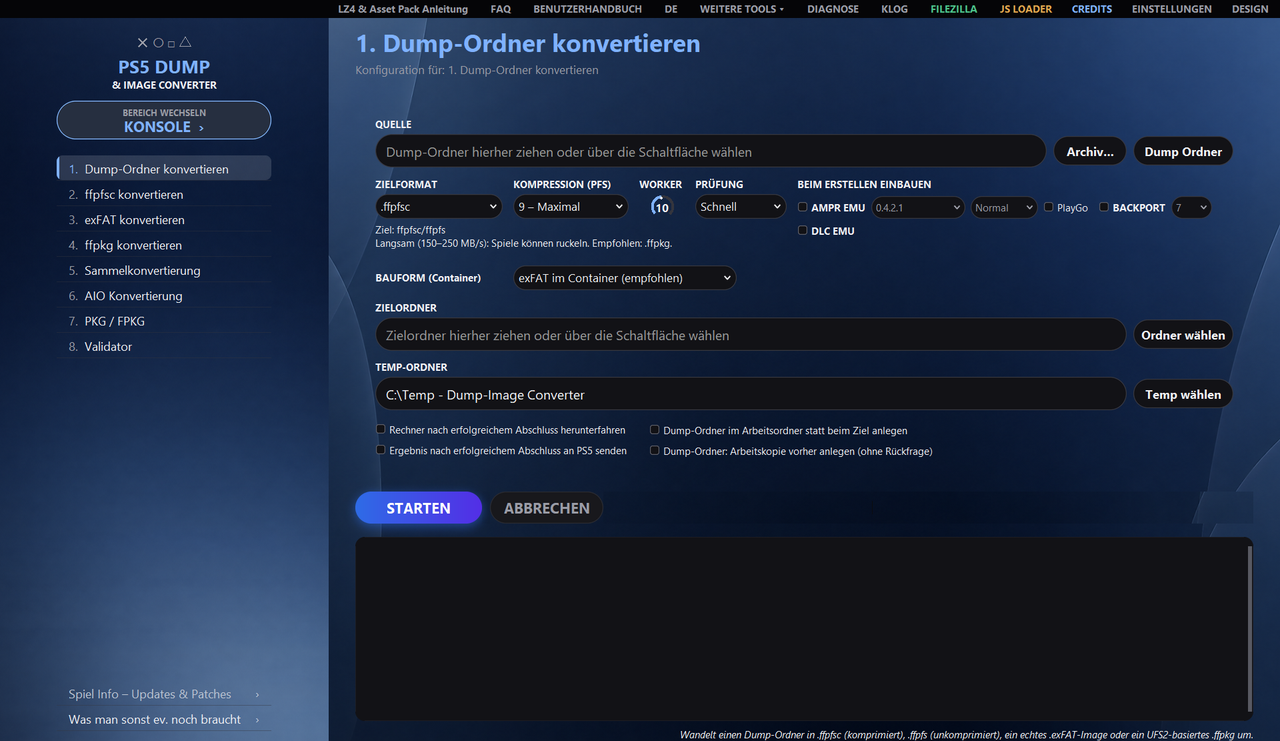
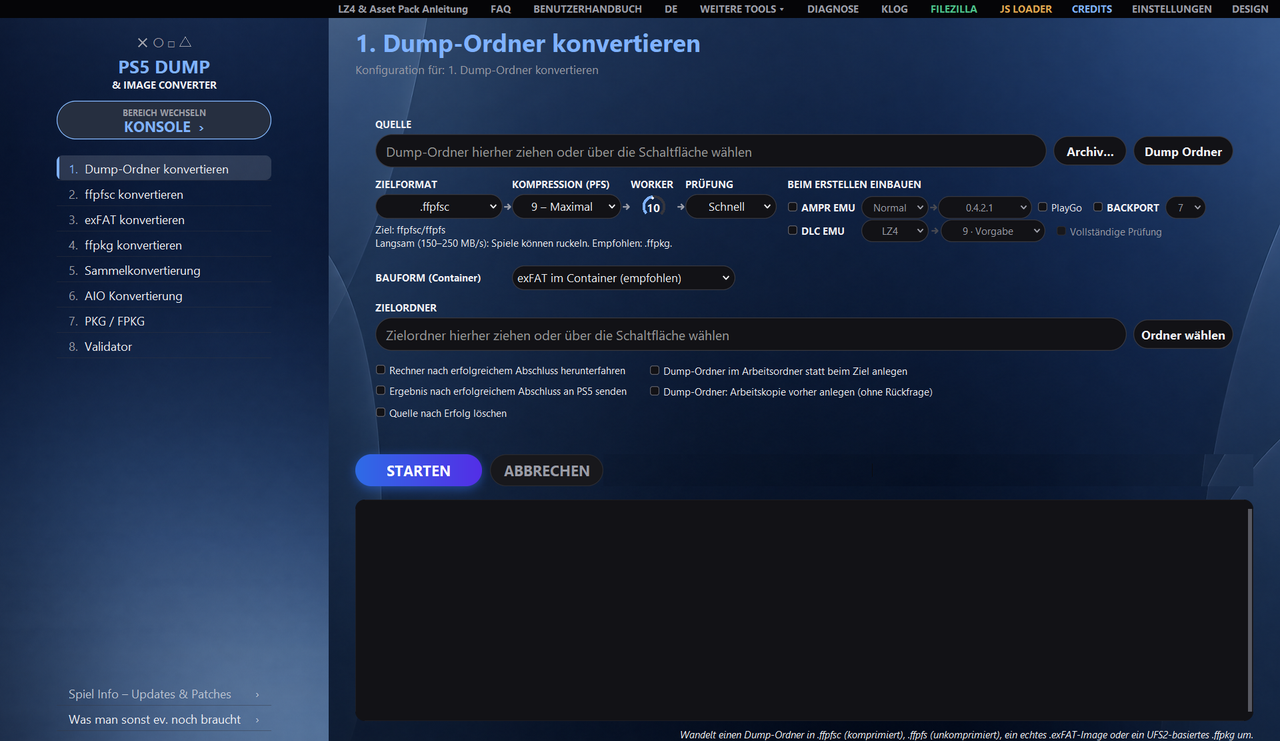
README (5 Sprachen) und README-Bilder auf den Stand v1.9.98 gebracht
- Funktionen: Umwandlung in einem Zug ohne Zwischenordner, .ffpkg ohne UFS2Tool,
  Quelle nach Erfolg loeschen; Werkzeuge: Direkt aendern (.exfat/.ffpkg/.ffpfs)
  und Geraete im Netz
- Voraussetzungen: Windows-Zeile zu Administratorrechten richtiggestellt (EXE fragt
  per UAC, sonst brauchen nur UFS2Tool-Weg und OSFMount sie)
- Kommandozeile: --ausgabename und --quelle-loeschen ergaenzt, Beschreibung von
  --ampr-originale-weglassen um NG mit LZ4 erweitert, "letzten sieben"
- Plattformunterschiede: .ffpkg mit eigenem UFS2-Leser und -Schreiber
- Bilder neu aufgenommen (Hauptansicht, Konsole, PKG; WebKit und Mitschnitt waren
  unveraendert), offline, ohne Netz, mit Beispielspiel statt echter Titel

diff --git a/README_FR.md b/README_FR.md
@@ -50,7 +50,10 @@ et **CONSOLE** ; chaque tâche est aussi disponible sans fenêtre, en ligne de c
 
 🔄 **Convertir**<br>
 Dossiers de dump, `.ffpfsc`, `.exfat` et véritables `.ffpkg` UFS2 dans toutes les directions, y compris
-directement depuis `.zip`, `.7z` et `.rar`. Seuls les formats cibles compatibles avec la source détectée sont proposés.
+directement depuis `.zip`, `.7z` et `.rar`. La conversion se fait en principe en une seule passe, sans dossier
+intermédiaire (aussi avec AMPR EMU et BACKPORT), et un `.ffpkg` est créé sans UFS2Tool. Seuls les formats
+cibles compatibles avec la source détectée sont proposés ; sur demande, la source est supprimée après une
+exécution vérifiée.
 
 </td>
 <td width="33%" valign="top">
@@ -116,7 +119,9 @@ Bibliothèque de jeux de l'ordinateur et de la PS5 avec jaquette ; infos de jeu 
 ShadowMount+, SMPlusGui, Prospero Manager, CoolSysCent-Pro, BFpilot, Asset Pack (vérifier et extraire)
 et le Y2JB Updater sont accessibles depuis la
 barre latérale. Sous AUTRES OUTILS, MODIFIER L'IMAGE modifie des fichiers individuels d'une image
-(extraire, remplacer, renommer, supprimer, reconditionner).
+(extraire, remplacer, renommer, supprimer, reconditionner) ; « Modifier directement » écrit dans `.exfat`,
+`.ffpkg` et `.ffpfs` sans extraction, et un journal permet d'annuler une interruption. « Appareils sur le
+réseau » trouve les NAS et ordinateurs du réseau et définit un partage Windows comme source ou destination.
 
 </td>
 <td valign="top">
@@ -173,7 +178,9 @@ Sous macOS, `Erste Installation.command` place l'application au bon endroit et r
 
 - **Windows 10/11**, une distribution Linux récente ou **macOS** (testé sous macOS 15 ; les versions antérieures n'ont pas été testées)
 - Suffisamment d'espace disque libre pour la source, l'état intermédiaire et la sortie
-- **Windows :** droits d'administrateur pour les opérations UFS2 (`.ffpkg`)
+- **Windows :** l'EXE fourni demande les droits d'administrateur au démarrage (UAC). Depuis le code source, ils
+  ne sont nécessaires que pour la voie via UFS2Tool et pour le montage avec OSFMount ; un `.ffpkg` sans dossier
+  intermédiaire est créé sans eux
 - **OSFMount non requis :** le programme lit les images `.exFAT` avec son lecteur exFAT intégré, sans
   rien monter – sur tous les systèmes. [OSFMount](https://www.osforensics.com/tools/mount-disk-images.html)
   n'est qu'un recours pour les images inhabituelles sous Windows ; s'il est nécessaire, le programme le signale
@@ -272,16 +279,18 @@ python PS5ImageConverter_Pro_FINAL_revised.py --cli --task 1 \
 | `--ampr-lz4-stufe N` | niveau LZ4 de l'Asset Pack, 1–12 (par défaut 9) |
 | `--ampr-zstd-stufe N` | niveau zstd de l'Asset Pack, 1–22 (par défaut 5) |
 | `--dump-im-arbeitsordner` | créer le dossier de dump temporaire des voies de reconditionnement dans le dossier de travail plutôt qu'à la destination |
+| `--ausgabename VORLAGE` | modèle pour le nom du résultat, p. ex. `"{title} [{title_id}]"` ; parties : `{name}` `{title}` `{title_id}` `{version}` `{region}` `{fw}` `{pack}`, par défaut `{name}` |
 | `--umhuellt-neu-packen` | `.exFAT`/`.ffpkg` → `.ffpfsc` avec AMPR EMU/BACKPORT : extraire, intégrer, reconditionner en `.ffpfsc` |
 | `--umhuellt-als-ordner` | par la même voie, ne construire que le dossier de dump à la place |
 | `--ampr-index-trotz-assets` | reconstruire `ampr_emu.index` même si un Asset Pack est présent |
-| `--ampr-originale-weglassen` | avec l'Asset Pack, retirer de la copie de travail les originaux empaquetés (judicieux uniquement après un test réussi sur la console ; avec AMPR EMU NG et zstd toujours, sans demander) |
+| `--ampr-originale-weglassen` | avec l'Asset Pack, retirer de la copie de travail les originaux empaquetés (judicieux uniquement après un test réussi sur la console ; avec AMPR EMU NG et zstd toujours, sans demander ; de même avec LZ4 tant que l'empaquetage se fait sans dossier intermédiaire) |
 | `--param-json-reparieren` | réparer sans confirmation un `param.json` défectueux |
 | `--param-json-online` | rechercher en ligne le titre et le Content-ID correspondants |
+| `--quelle-loeschen` | supprimer définitivement la source après une exécution vérifiée avec succès (pas de corbeille, pas de question) ; elle est conservée si le résultat manque, si la source a changé pendant l'exécution ou si le résultat l'a remplacée |
 
-Les six dernières décident de questions auxquelles `--yes` ne répond volontairement **pas** : un commutateur
+Les sept dernières décident de questions auxquelles `--yes` ne répond volontairement **pas** : un commutateur
 destiné aux questions d'écrasement ne doit pas, au passage, changer de voie, rendre un Asset Pack inutilisable,
-supprimer des fichiers de jeu ou envoyer des données sur le réseau.
+supprimer des fichiers de jeu, supprimer la source ou envoyer des données sur le réseau.
 
 Codes de retour : `0` succès · `1` erreur ou annulation · `2` arguments invalides · `3` droits
 d'administrateur manquants · `4` non vérifié (tâche 8 sans les droits nécessaires – aucun jugement sur le fichier).
@@ -379,7 +388,7 @@ Les différences se trouvent ici :
 
 | Domaine | Linux et macOS |
 | --- | --- |
-| Lire et créer des `.ffpkg` | Disponible – UFS2Tool est fourni pour Windows, Linux et macOS (Intel et Apple Silicon) ; la lecture se fait via `UFS2Tool extract`, la création via `newfs`/`makefs`. Seul le montage via le pilote Dokan n'existe que sous Windows. |
+| Lire et créer des `.ffpkg` | Disponible – le programme lit et écrit les `.ffpkg` avec son propre lecteur et écrivain UFS2, sans UFS2Tool. Là où la conversion sans dossier intermédiaire ne s'applique pas, UFS2Tool est utilisé : il est fourni pour Windows, Linux et macOS (Intel et Apple Silicon) ; la lecture se fait via `UFS2Tool extract`, la création via `newfs`/`makefs`. Seul le montage via le pilote Dokan n'existe que sous Windows. |
 | PS4 PKG Dump & Image Converter | OrbisPkgTool n'existe que comme programme Windows. Il y extrait les paquets PS4 vers le dossier de dump et fusionne base, mise à jour et DLC ; sans cet outil, il reste ffpfsc et exFAT, qui sont construits directement à partir des paquets via PS4 FFPFSC. La collection, les détails, la recherche de mises à jour et l'envoi fonctionnent partout. |
 | Solutions de remplacement d'OSFMount | Non disponible ; les voies natives MkPFS/exFAT sont entièrement présentes. |
 | Droits élevés | Non nécessaires. |

diff --git a/README_IT.md b/README_IT.md
@@ -49,7 +49,9 @@ della PS5. Tutto avviene tramite un'interfaccia grafica con due aree – **CONVE
 
 🔄 **Conversione**<br>
 Cartelle dump, `.ffpfsc`, `.exfat` e veri `.ffpkg` UFS2 in ogni direzione, anche direttamente da
-`.zip`, `.7z` e `.rar`. Vengono proposti solo i formati di destinazione compatibili con l'origine rilevata.
+`.zip`, `.7z` e `.rar`. La conversione avviene di norma in un solo passaggio, senza cartella intermedia
+(anche con AMPR EMU e BACKPORT), e un `.ffpkg` viene creato senza UFS2Tool. Vengono proposti solo i formati
+di destinazione compatibili con l'origine rilevata; su richiesta l'origine viene eliminata dopo un'esecuzione verificata.
 
 </td>
 <td width="33%" valign="top">
@@ -115,7 +117,9 @@ Libreria giochi del computer e della PS5 con copertina; Info gioco con aggiornam
 ShadowMount+, SMPlusGui, Prospero Manager, CoolSysCent-Pro, BFpilot, Asset Pack (verificare ed estrarre)
 e lo Y2JB Updater sono raggiungibili dalla
 barra laterale. Sotto ALTRI STRUMENTI, MODIFICA IMMAGINE modifica singoli file di un'immagine
-(estrarre, sostituire, rinominare, eliminare, ricreare il pacchetto).
+(estrarre, sostituire, rinominare, eliminare, ricreare il pacchetto); “Modifica diretta” scrive in `.exfat`,
+`.ffpkg` e `.ffpfs` senza estrarre, e un journal annulla un'interruzione. “Dispositivi in rete” trova NAS e
+computer in rete e imposta una condivisione Windows come origine o destinazione.
 
 </td>
 <td valign="top">
@@ -172,7 +176,9 @@ Su macOS, `Erste Installation.command` copia l'app nella posizione prevista e ri
 
 - **Windows 10/11**, una distribuzione Linux recente oppure **macOS** (testato su macOS 15; le versioni precedenti non sono state testate)
 - Spazio libero sufficiente per origine, stato intermedio e output
-- **Windows:** privilegi di amministratore per le procedure UFS2 (`.ffpkg`)
+- **Windows:** l'EXE pronto chiede privilegi di amministratore all'avvio (UAC). Eseguendo dal codice sorgente
+  servono solo per il percorso tramite UFS2Tool e per il montaggio con OSFMount; un `.ffpkg` senza cartella
+  intermedia viene creato senza di essi
 - **OSFMount non necessario:** le immagini `.exFAT` vengono lette dal programma con il proprio lettore exFAT
   integrato, senza montare nulla – su qualsiasi sistema. [OSFMount](https://www.osforensics.com/tools/mount-disk-images.html)
   è solo la soluzione di ripiego per immagini insolite su Windows; se serve, il programma lo segnala
@@ -271,16 +277,18 @@ python PS5ImageConverter_Pro_FINAL_revised.py --cli --task 1 \
 | `--ampr-lz4-stufe N` | livello LZ4 dell'Asset Pack, 1–12 (predefinito 9) |
 | `--ampr-zstd-stufe N` | livello zstd dell'Asset Pack, 1–22 (predefinito 5) |
 | `--dump-im-arbeitsordner` | creare la cartella dump temporanea dei percorsi di ripacchettamento nella cartella di lavoro anziché nella destinazione |
+| `--ausgabename VORLAGE` | modello per il nome del risultato, ad es. `"{title} [{title_id}]"`; parti: `{name}` `{title}` `{title_id}` `{version}` `{region}` `{fw}` `{pack}`, predefinito `{name}` |
 | `--umhuellt-neu-packen` | `.exFAT`/`.ffpkg` → `.ffpfsc` con AMPR EMU/BACKPORT: estrarre, integrare, ricreare il pacchetto `.ffpfsc` |
 | `--umhuellt-als-ordner` | seguendo lo stesso percorso, creare invece solo la cartella dump |
 | `--ampr-index-trotz-assets` | ricreare `ampr_emu.index` anche se è già presente un Asset Pack |
-| `--ampr-originale-weglassen` | con l'Asset Pack, rimuovere dalla copia di lavoro gli originali impacchettati (ha senso solo dopo un test sulla console superato; con AMPR EMU NG e zstd sempre, senza chiedere) |
+| `--ampr-originale-weglassen` | con l'Asset Pack, rimuovere dalla copia di lavoro gli originali impacchettati (ha senso solo dopo un test sulla console superato; con AMPR EMU NG e zstd sempre, senza chiedere; lo stesso con LZ4 finché si impacchetta senza cartella intermedia) |
 | `--param-json-reparieren` | riparare senza richiesta un `param.json` difettoso |
 | `--param-json-online` | cercare in rete titolo e Content ID a tale scopo |
+| `--quelle-loeschen` | eliminare definitivamente l'origine dopo un'esecuzione verificata con successo (niente cestino, nessuna richiesta); resta se il risultato manca, se l'origine è cambiata durante l'esecuzione o se il risultato l'ha sostituita |
 
-Le ultime sei decidono richieste a cui `--yes` volutamente **non** risponde: un'opzione per le richieste di
+Le ultime sette decidono richieste a cui `--yes` volutamente **non** risponde: un'opzione per le richieste di
 sovrascrittura non deve cambiare percorso di nascosto, rendere inutilizzabile un Asset Pack,
-rimuovere file di gioco o inviare dati in rete.
+rimuovere file di gioco, eliminare l'origine o inviare dati in rete.
 
 Codici di uscita: `0` successo · `1` errore o interruzione · `2` argomenti non validi · `3` privilegi di
 amministratore mancanti · `4` non verificato (attività 8 senza i privilegi necessari – nessun giudizio sul file).
@@ -378,7 +386,7 @@ Le differenze sono queste:
 
 | Ambito | Linux e macOS |
 | --- | --- |
-| Lettura e creazione di `.ffpkg` | Disponibile – UFS2Tool è incluso per Windows, Linux e macOS (Intel e Apple Silicon); la lettura avviene tramite `UFS2Tool extract`, la creazione tramite `newfs`/`makefs`. Solo il montaggio tramite il driver Dokan esiste esclusivamente su Windows. |
+| Lettura e creazione di `.ffpkg` | Disponibile – il programma legge e scrive `.ffpkg` con un proprio lettore e scrittore UFS2, senza UFS2Tool. Dove la conversione senza cartella intermedia non si applica, si usa UFS2Tool: è incluso per Windows, Linux e macOS (Intel e Apple Silicon); la lettura avviene tramite `UFS2Tool extract`, la creazione tramite `newfs`/`makefs`. Solo il montaggio tramite il driver Dokan esiste esclusivamente su Windows. |
 | PS4 PKG Dump & Image Converter | OrbisPkgTool esiste solo come programma Windows. Lì estrae i pacchetti PS4 nella cartella dump e unisce base, aggiornamento e DLC; senza lo strumento restano ffpfsc ed exFAT, creati direttamente dai pacchetti tramite PS4 FFPFSC. Raccolta, dettagli, richiesta degli aggiornamenti e invio funzionano ovunque. |
 | Alternative a OSFMount | Non disponibili; i percorsi nativi MkPFS/exFAT sono presenti per intero. |
 | Privilegi elevati | Non necessari. |

diff --git a/README_ES.md b/README_ES.md
@@ -49,7 +49,9 @@ de la PS5. Todo funciona mediante una interfaz gráfica con dos áreas, **CONVER
 
 🔄 **Convertir**<br>
 Carpetas de dump, `.ffpfsc`, `.exfat` y `.ffpkg` UFS2 genuinos en cualquier dirección, también directamente desde
-`.zip`, `.7z` y `.rar`. Solo se ofrecen los formatos de destino compatibles con el origen detectado.
+`.zip`, `.7z` y `.rar`. La conversión se realiza normalmente de una sola pasada, sin carpeta intermedia
+(también con AMPR EMU y BACKPORT), y un `.ffpkg` se crea sin UFS2Tool. Solo se ofrecen los formatos de
+destino compatibles con el origen detectado; si se desea, el origen se elimina tras una ejecución verificada.
 
 </td>
 <td width="33%" valign="top">
@@ -115,7 +117,9 @@ Biblioteca de juegos del equipo y de la PS5 con carátula; info del juego con ac
 ShadowMount+, SMPlusGui, Prospero Manager, CoolSysCent-Pro, BFpilot, Asset Pack (comprobar y extraer)
 y el Y2JB Updater son accesibles desde la
 barra lateral. En MÁS HERRAMIENTAS, EDITAR IMAGEN modifica archivos individuales de una imagen
-(extraer, sustituir, renombrar, eliminar, volver a empaquetar).
+(extraer, sustituir, renombrar, eliminar, volver a empaquetar); «Editar directamente» escribe en `.exfat`,
+`.ffpkg` y `.ffpfs` sin extraer, y un diario deshace una interrupción. «Dispositivos en la red» encuentra NAS
+y equipos de la red y fija un recurso compartido de Windows como origen o destino.
 
 </td>
 <td valign="top">
@@ -172,7 +176,9 @@ En macOS, `Erste Installation.command` coloca la app en su sitio y elimina la ma
 
 - **Windows 10/11**, una distribución de Linux actual o **macOS** (probado en macOS 15; las versiones anteriores no se han probado)
 - Espacio libre suficiente para el origen, el estado intermedio y la salida
-- **Windows:** derechos de administrador para los procesos con UFS2 (`.ffpkg`)
+- **Windows:** el EXE terminado pide derechos de administrador al iniciarse (UAC). Al ejecutar desde el código
+  fuente, solo se necesitan para la vía con UFS2Tool y para el montaje con OSFMount; un `.ffpkg` sin carpeta
+  intermedia se crea sin ellos
 - **No hace falta OSFMount:** las imágenes `.exFAT` las lee el programa con su lector exFAT integrado, sin
   montar nada, en cualquier sistema. [OSFMount](https://www.osforensics.com/tools/mount-disk-images.html)
   es solo la alternativa para imágenes poco habituales en Windows; si hace falta, el programa lo indica
@@ -272,16 +278,18 @@ python PS5ImageConverter_Pro_FINAL_revised.py --cli --task 1 \
 | `--ampr-lz4-stufe N` | nivel LZ4 del Asset Pack, 1–12 (predeterminado 9) |
 | `--ampr-zstd-stufe N` | nivel zstd del Asset Pack, 1–22 (predeterminado 5) |
 | `--dump-im-arbeitsordner` | crear la carpeta de dump temporal de las rutas de reempaquetado en la carpeta de trabajo en lugar de en el destino |
+| `--ausgabename VORLAGE` | plantilla para el nombre del resultado, p. ej. `"{title} [{title_id}]"`; partes: `{name}` `{title}` `{title_id}` `{version}` `{region}` `{fw}` `{pack}`, predeterminada `{name}` |
 | `--umhuellt-neu-packen` | `.exFAT`/`.ffpkg` → `.ffpfsc` con AMPR EMU/BACKPORT: extraer, integrar y volver a empaquetar como `.ffpfsc` |
 | `--umhuellt-als-ordner` | por el mismo camino, construir en su lugar solo la carpeta de dump |
 | `--ampr-index-trotz-assets` | reconstruir `ampr_emu.index` incluso si ya existe un Asset Pack |
-| `--ampr-originale-weglassen` | con el Asset Pack, quitar de la copia de trabajo los originales empaquetados (solo tiene sentido tras superar la prueba en la consola; con AMPR EMU NG y zstd siempre, sin preguntar) |
+| `--ampr-originale-weglassen` | con el Asset Pack, quitar de la copia de trabajo los originales empaquetados (solo tiene sentido tras superar la prueba en la consola; con AMPR EMU NG y zstd siempre, sin preguntar; igual con LZ4 mientras se empaquete sin carpeta intermedia) |
 | `--param-json-reparieren` | reparar sin consulta un `param.json` defectuoso |
 | `--param-json-online` | buscar en la red el título y el Content-ID para ello |
+| `--quelle-loeschen` | eliminar el origen de forma definitiva tras una ejecución verificada con éxito (sin papelera, sin consulta); se conserva si falta el resultado, si el origen cambió durante la ejecución o si el resultado lo sustituyó |
 
-Los últimos seis deciden consultas que `--yes` deliberadamente **no** responde: un interruptor para las
+Los últimos siete deciden consultas que `--yes` deliberadamente **no** responde: un interruptor para las
 consultas de sobrescritura no debe, de paso, cambiar el camino, inutilizar un Asset Pack,
-eliminar archivos del juego ni enviar datos a la red.
+eliminar archivos del juego, borrar el origen ni enviar datos a la red.
 
 Códigos de salida: `0` éxito · `1` error o cancelación · `2` argumentos no válidos · `3` faltan
 derechos de administrador · `4` no comprobado (tarea 8 sin los derechos necesarios; no es un veredicto sobre el archivo).
@@ -379,7 +387,7 @@ Las diferencias son estas:
 
 | Ámbito | Linux y macOS |
 | --- | --- |
-| Leer y construir `.ffpkg` | Disponible: UFS2Tool se incluye para Windows, Linux y macOS (Intel y Apple Silicon); la lectura se hace con `UFS2Tool extract` y la construcción con `newfs`/`makefs`. Solo el montaje mediante el controlador Dokan existe exclusivamente en Windows. |
+| Leer y construir `.ffpkg` | Disponible: el programa lee y escribe `.ffpkg` con su propio lector y escritor UFS2, sin UFS2Tool. Donde la conversión sin carpeta intermedia no se aplica, se usa UFS2Tool: se incluye para Windows, Linux y macOS (Intel y Apple Silicon); la lectura se hace con `UFS2Tool extract` y la construcción con `newfs`/`makefs`. Solo el montaje mediante el controlador Dokan existe exclusivamente en Windows. |
 | PS4 PKG Dump & Image Converter | OrbisPkgTool solo existe como programa de Windows. Allí extrae paquetes de PS4 a la carpeta de dump y fusiona base, actualización y DLC; sin la herramienta quedan ffpfsc y exFAT, que se construyen directamente desde los paquetes mediante PS4 FFPFSC. Colección, detalles, consulta de actualizaciones y envío funcionan en todas partes. |
 | Alternativas a OSFMount | No disponibles; las vías nativas de MkPFS/exFAT están completas. |
 | Derechos elevados | No necesarios. |

diff --git a/README.md b/README.md
@@ -47,7 +47,9 @@ der PS5 verwalten. Alles läuft über eine grafische Oberfläche mit zwei Bereic
 
 🔄 **Umwandeln**<br>
 Dump-Ordner, `.ffpfsc`, `.exfat` und echte UFS2-`.ffpkg` in jede Richtung, auch direkt aus
-`.zip`, `.7z` und `.rar`. Angeboten werden nur Zielformate, die zur erkannten Quelle passen.
+`.zip`, `.7z` und `.rar`. Die Umwandlung läuft in der Regel in einem Zug ohne Zwischenordner – auch mit
+AMPR EMU und BACKPORT –, ein `.ffpkg` entsteht ohne UFS2Tool. Angeboten werden nur Zielformate, die zur
+erkannten Quelle passen; auf Wunsch wird die Quelle nach einem geprüften Lauf gelöscht.
 
 </td>
 <td width="33%" valign="top">
@@ -113,7 +115,9 @@ Spielbibliothek von Rechner und PS5 mit Cover; Spiel-Info mit Updates & Patches 
 ShadowMount+, SMPlusGui, Prospero Manager, CoolSysCent-Pro, BFpilot, Asset-Pack (prüfen und entpacken)
 und der Y2JB Updater erreichen Sie aus der
 Seitenleiste. Unter WEITERE TOOLS ändert ABBILD BEARBEITEN einzelne Dateien eines Abbilds
-(entpacken, ersetzen, umbenennen, löschen, neu packen).
+(entpacken, ersetzen, umbenennen, löschen, neu packen); „Direkt ändern“ schreibt in `.exfat`, `.ffpkg` und
+`.ffpfs` ohne Entpacken, und ein Journal macht einen Abbruch rückgängig. „Geräte im Netz“ findet NAS und
+Rechner im Netz und setzt eine Windows-Freigabe als Quelle oder Ziel.
 
 </td>
 <td valign="top">
@@ -170,7 +174,9 @@ Unter macOS legt `Erste Installation.command` die App ab und entfernt die Quaran
 
 - **Windows 10/11**, eine aktuelle Linux-Distribution oder **macOS** (getestet unter macOS 15; ältere Versionen sind ungetestet)
 - Genug freier Speicherplatz für Quelle, Zwischenstand und Ausgabe
-- **Windows:** Administratorrechte für UFS2-Abläufe (`.ffpkg`)
+- **Windows:** Die fertige EXE fragt beim Start nach Administratorrechten (UAC). Wer aus dem Quelltext arbeitet,
+  braucht sie nur für den Weg über UFS2Tool und für das Einhängen mit OSFMount; ein `.ffpkg` ohne
+  Zwischenordner entsteht auch ohne sie
 - **Kein OSFMount nötig:** `.exFAT`-Abbilder liest das Programm mit seinem eingebetteten exFAT-Leser, ohne
   etwas einzuhängen – auf jedem System. [OSFMount](https://www.osforensics.com/tools/mount-disk-images.html)
   ist nur der Rückfall für ungewöhnliche Abbilder unter Windows; wird er gebraucht, sagt das Programm es
@@ -271,16 +277,18 @@ python PS5ImageConverter_Pro_FINAL_revised.py --cli --task 1 \
 | `--ampr-lz4-stufe N` | LZ4-Stufe des Asset-Packs, 1–12 (Vorgabe 9) |
 | `--ampr-zstd-stufe N` | zstd-Stufe des Asset-Packs, 1–22 (Vorgabe 5) |
 | `--dump-im-arbeitsordner` | den vorübergehenden Dump-Ordner der Umpack-Wege im Arbeitsordner statt beim Ziel anlegen |
+| `--ausgabename VORLAGE` | Vorlage für den Namen des Ergebnisses, z. B. `"{title} [{title_id}]"`; Teile: `{name}` `{title}` `{title_id}` `{version}` `{region}` `{fw}` `{pack}`, Vorgabe `{name}` |
 | `--umhuellt-neu-packen` | `.exFAT`/`.ffpkg` → `.ffpfsc` mit AMPR EMU/BACKPORT: entpacken, einbauen, wieder zu `.ffpfsc` packen |
 | `--umhuellt-als-ordner` | auf demselben Weg stattdessen nur den Dump-Ordner bauen |
 | `--ampr-index-trotz-assets` | `ampr_emu.index` auch bei vorhandenem Asset-Pack neu bauen |
-| `--ampr-originale-weglassen` | beim Asset-Pack die gepackten Originale aus der Arbeitskopie entfernen (nur nach bestandenem Konsolentest sinnvoll; bei AMPR EMU NG mit zstd immer, ohne Rückfrage) |
+| `--ampr-originale-weglassen` | beim Asset-Pack die gepackten Originale aus der Arbeitskopie entfernen (nur nach bestandenem Konsolentest sinnvoll; bei AMPR EMU NG mit zstd immer, ohne Rückfrage; ebenso mit LZ4, solange ohne Zwischenordner gepackt wird) |
 | `--param-json-reparieren` | fehlerhafte `param.json` ohne Rückfrage reparieren |
 | `--param-json-online` | Titel und Content-ID dafür im Netz nachschlagen |
+| `--quelle-loeschen` | die Quelle nach einem erfolgreich geprüften Lauf endgültig löschen (kein Papierkorb, keine Rückfrage); sie bleibt, wenn das Ergebnis fehlt, die Quelle sich während des Laufs geändert hat oder das Ergebnis sie ersetzt hat |
 
-Die letzten sechs entscheiden Rückfragen, die `--yes` bewusst **nicht** beantwortet: Ein Schalter für
+Die letzten sieben entscheiden Rückfragen, die `--yes` bewusst **nicht** beantwortet: Ein Schalter für
 Überschreib-Rückfragen soll nicht nebenbei den Weg wechseln, ein Asset-Pack unbrauchbar machen,
-Spieldateien entfernen oder Daten ins Netz schicken.
+Spieldateien entfernen, die Quelle löschen oder Daten ins Netz schicken.
 
 Rückgabewerte: `0` Erfolg · `1` Fehler oder Abbruch · `2` ungültige Argumente · `3` fehlende
 Administratorrechte · `4` nicht geprüft (Aufgabe 8 ohne die nötigen Rechte – kein Urteil über die Datei).
@@ -378,7 +386,7 @@ Unterschiede gibt es hier:
 
 | Bereich | Linux und macOS |
 | --- | --- |
-| `.ffpkg` lesen und bauen | Verfügbar – UFS2Tool liegt für Windows, Linux und macOS (Intel und Apple Silicon) bei; gelesen wird über `UFS2Tool extract`, gebaut über `newfs`/`makefs`. Nur das Einhängen über den Dokan-Treiber gibt es ausschließlich unter Windows. |
+| `.ffpkg` lesen und bauen | Verfügbar – das Programm liest und schreibt `.ffpkg` mit eigenem UFS2-Leser und -Schreiber, ohne UFS2Tool. Wo die Umwandlung ohne Zwischenordner nicht greift, geht es über UFS2Tool: Es liegt für Windows, Linux und macOS (Intel und Apple Silicon) bei; gelesen wird über `UFS2Tool extract`, gebaut über `newfs`/`makefs`. Nur das Einhängen über den Dokan-Treiber gibt es ausschließlich unter Windows. |
 | PS4 PKG Dump & Image Converter | OrbisPkgTool gibt es nur als Windows-Programm. Dort entpackt es PS4-Pakete zum Dump-Ordner und führt Basis, Update und DLC zusammen; ohne das Werkzeug bleiben ffpfsc und exFAT, die über PS4 FFPFSC direkt aus den Paketen gebaut werden. Sammlung, Einzelheiten, Update-Abfrage und Senden gehen überall. |
 | OSFMount-Ersatzwege | Nicht verfügbar; die nativen MkPFS-/exFAT-Wege sind vollständig vorhanden. |
 | Erhöhte Rechte | Nicht nötig. |

diff --git a/README_EN.md b/README_EN.md
@@ -49,7 +49,9 @@ library. Everything runs through a graphical interface with two areas – **CONV
 
 🔄 **Convert**<br>
 Dump folders, `.ffpfsc`, `.exfat` and genuine UFS2 `.ffpkg` in any direction, including directly from
-`.zip`, `.7z` and `.rar`. Only target formats that match the detected source are offered.
+`.zip`, `.7z` and `.rar`. Conversion normally runs in a single pass without an intermediate folder –
+also with AMPR EMU and BACKPORT – and a `.ffpkg` is created without UFS2Tool. Only target formats that
+match the detected source are offered; on request, the source is deleted after a verified run.
 
 </td>
 <td width="33%" valign="top">
@@ -115,7 +117,9 @@ Game library of the computer and the PS5 with covers; Game Info with updates & p
 ShadowMount+, SMPlusGui, Prospero Manager, CoolSysCent-Pro, BFpilot, Asset Pack (check and unpack)
 and the Y2JB Updater are reachable from the
 sidebar. Under MORE TOOLS, EDIT IMAGE changes individual files of an image
-(unpack, replace, rename, delete, repack).
+(unpack, replace, rename, delete, repack); “Edit in place” writes into `.exfat`, `.ffpkg` and `.ffpfs`
+without unpacking, and a journal undoes an aborted run. “Devices on the network” finds NAS and computers
+on the network and sets a Windows share as source or destination.
 
 </td>
 <td valign="top">
@@ -172,7 +176,9 @@ On macOS, `Erste Installation.command` places the app and removes the quarantine
 
 - **Windows 10/11**, a current Linux distribution, or **macOS** (tested on macOS 15; older versions are untested)
 - Enough free disk space for source, intermediate state and output
-- **Windows:** administrator rights for UFS2 workflows (`.ffpkg`)
+- **Windows:** the finished EXE asks for administrator rights at start (UAC). When running from source, they are
+  only needed for the path via UFS2Tool and for mounting with OSFMount; a `.ffpkg` without an intermediate
+  folder is created without them
 - **OSFMount not required:** the program reads `.exFAT` images with its embedded exFAT reader, without
   mounting anything – on every system. [OSFMount](https://www.osforensics.com/tools/mount-disk-images.html)
   is only the fallback for unusual images on Windows; if it is needed, the program says so
@@ -271,16 +277,18 @@ python PS5ImageConverter_Pro_FINAL_revised.py --cli --task 1 \
 | `--ampr-lz4-stufe N` | LZ4 level of the asset pack, 1–12 (default 9) |
 | `--ampr-zstd-stufe N` | zstd level of the asset pack, 1–22 (default 5) |
 | `--dump-im-arbeitsordner` | create the temporary dump folder of the repack paths in the working folder instead of at the destination |
+| `--ausgabename VORLAGE` | template for the name of the result, e.g. `"{title} [{title_id}]"`; parts: `{name}` `{title}` `{title_id}` `{version}` `{region}` `{fw}` `{pack}`, default `{name}` |
 | `--umhuellt-neu-packen` | `.exFAT`/`.ffpkg` → `.ffpfsc` with AMPR EMU/BACKPORT: unpack, integrate, repack to `.ffpfsc` |
 | `--umhuellt-als-ordner` | build only the dump folder along the same path instead |
 | `--ampr-index-trotz-assets` | rebuild `ampr_emu.index` even if an asset pack is present |
-| `--ampr-originale-weglassen` | for the asset pack, remove the packed originals from the working copy (only sensible after a passed console test; with AMPR EMU NG and zstd always, without asking) |
+| `--ampr-originale-weglassen` | for the asset pack, remove the packed originals from the working copy (only sensible after a passed console test; with AMPR EMU NG and zstd always, without asking; likewise with LZ4 as long as packing runs without an intermediate folder) |
 | `--param-json-reparieren` | repair a faulty `param.json` without prompting |
 | `--param-json-online` | look up title and content ID online for that purpose |
+| `--quelle-loeschen` | delete the source permanently after a successfully verified run (no recycle bin, no prompt); it stays if the result is missing, the source changed during the run, or the result replaced it |
 
-The last six decide prompts that `--yes` deliberately does **not** answer: a switch for
+The last seven decide prompts that `--yes` deliberately does **not** answer: a switch for
 overwrite prompts should not incidentally change the path, render an asset pack unusable,
-remove game files or send data over the network.
+remove game files, delete the source or send data over the network.
 
 Exit codes: `0` success · `1` error or abort · `2` invalid arguments · `3` missing
 administrator rights · `4` not checked (task 8 without the required rights – no verdict on the file).
@@ -378,7 +386,7 @@ Differences are here:
 
 | Area | Linux and macOS |
 | --- | --- |
-| Reading and building `.ffpkg` | Available – UFS2Tool is bundled for Windows, Linux and macOS (Intel and Apple Silicon); reading is done via `UFS2Tool extract`, building via `newfs`/`makefs`. Only mounting via the Dokan driver exists exclusively on Windows. |
+| Reading and building `.ffpkg` | Available – the program reads and writes `.ffpkg` with its own UFS2 reader and writer, without UFS2Tool. Where conversion without an intermediate folder does not apply, UFS2Tool is used: it is bundled for Windows, Linux and macOS (Intel and Apple Silicon); reading is done via `UFS2Tool extract`, building via `newfs`/`makefs`. Only mounting via the Dokan driver exists exclusively on Windows. |
 | PS4 PKG Dump & Image Converter | OrbisPkgTool exists only as a Windows program. There it unpacks PS4 packages into the dump folder and merges base, update and DLC; without that tool, ffpfsc and exFAT remain available, built directly from the packages via PS4 FFPFSC. Collection, details, update lookup and sending work everywhere. |
 | OSFMount substitute paths | Not available; the native MkPFS/exFAT paths are fully present. |
 | Elevated rights | Not required. |
